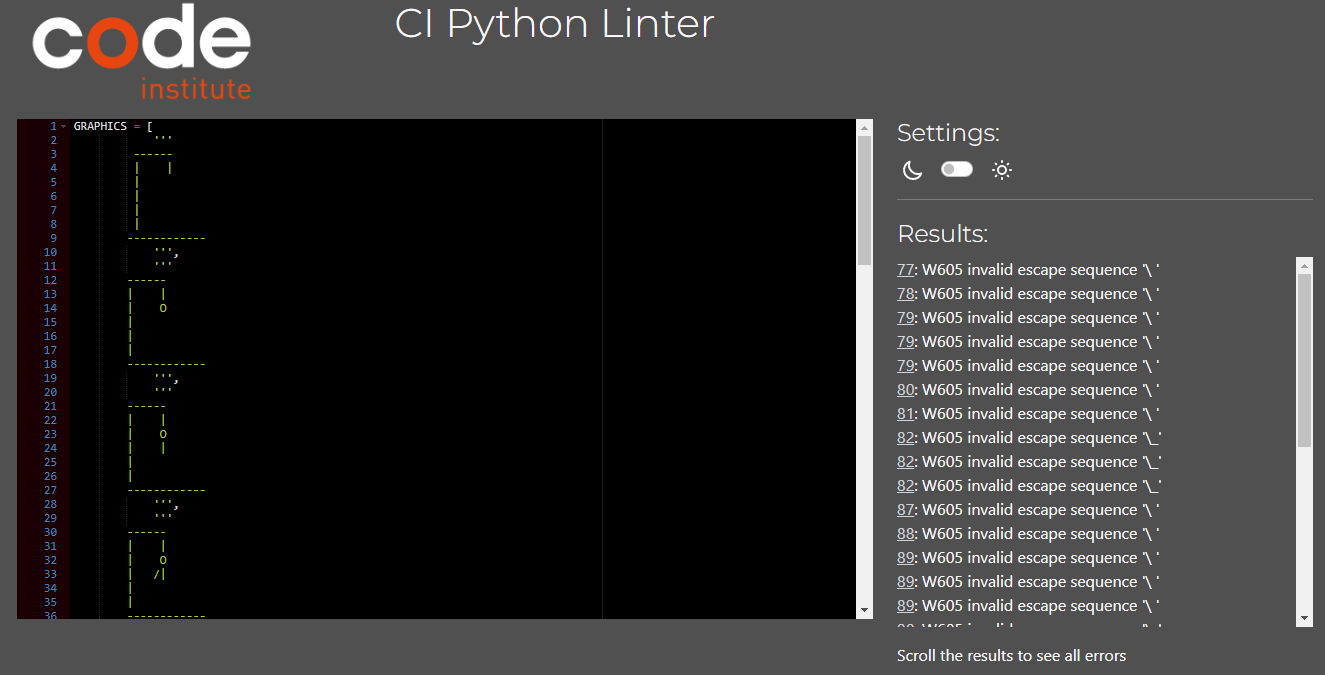
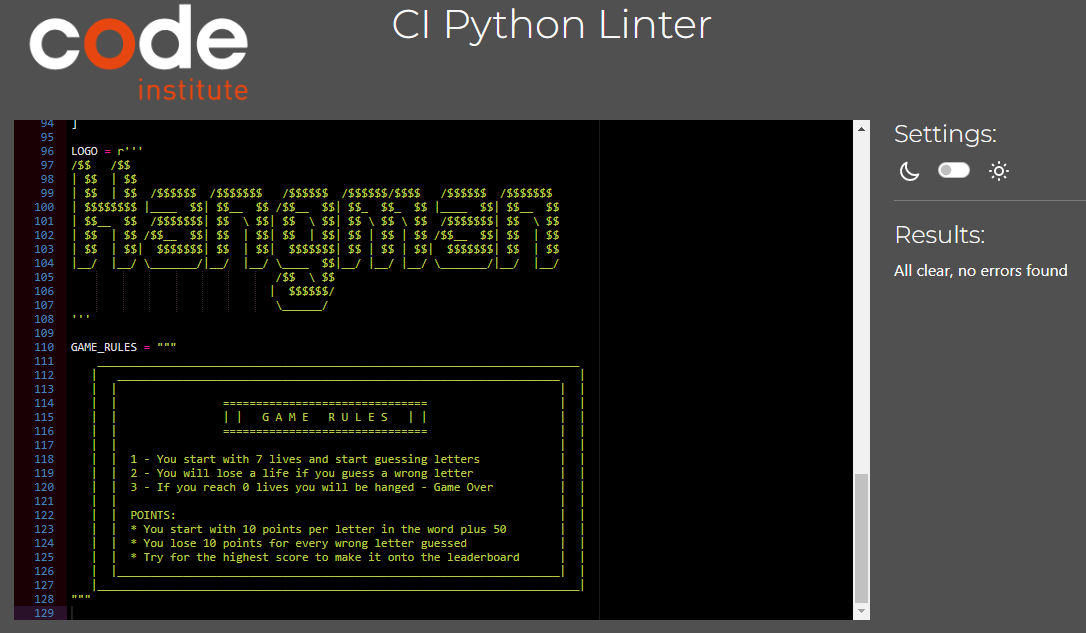
Resolve Invalid escape sequence warnings flagged by linter on hangman_parts file using raw strings

Changed region(s): [[0.0, 0.0, 1.0, 0.9905], [0.3039, 0.0, 0.6685, 0.06], [0.2127, 0.6303, 0.395, 0.6904]]

diff --git a/hangman_parts.py b/hangman_parts.py
@@ -71,7 +71,7 @@ GRAPHICS = [
         |   / \\
         ------------
             ''',
-            '''
+            r'''
     /$$     /$$                        /$$      /$$ /$$
     |  $$   /$$/                       | $$  /$ | $$|__/
      \  $$ /$$//$$$$$$  /$$   /$$      | $$ /$$$| $$ /$$ /$$$$$$$
@@ -81,7 +81,7 @@ GRAPHICS = [
         | $$ |  $$$$$$/|  $$$$$$/      | $$/   \  $$| $$| $$  | $$
         |__/  \______/  \______/       |__/     \__/|__/|__/  |__/
             ''',
-            '''
+            r'''
     /$$     /$$                        /$$
     |  $$   /$$/                       | $$
      \  $$ /$$//$$$$$$  /$$   /$$      | $$  /$$$$$$   /$$$$$$$  /$$$$$$
@@ -93,7 +93,7 @@ GRAPHICS = [
             '''
 ]
 
-LOGO = '''
+LOGO = r'''
 /$$   /$$
 | $$  | $$
 | $$  | $$  /$$$$$$  /$$$$$$$   /$$$$$$  /$$$$$$/$$$$   /$$$$$$  /$$$$$$$

diff --git a/README.md b/README.md
@@ -93,7 +93,6 @@ The theme of the quiz is related to Python to give you a clue for guessing words
     - This points system was constructed to address that shorter words are easier to guess.
     - The user will see their score on the leaderboard if they are in the Top 10.
     
-![image](/docs/HM_leaderboard.png)   
 
 #### Future Features
 
@@ -176,7 +175,7 @@ This project used:
 
     ![image](/docs/linter-parts.png)
 
-    Invalid escape sequence flagged due to how hangman graphics are created. I have been unable to resolve these warnings.
+    Linter returned invalid escape sequence warnings which were resolved using raw strings [Link](https://note.nkmk.me/en/python-raw-string-escape/)
 
  ### Additional Testing Comments
 
